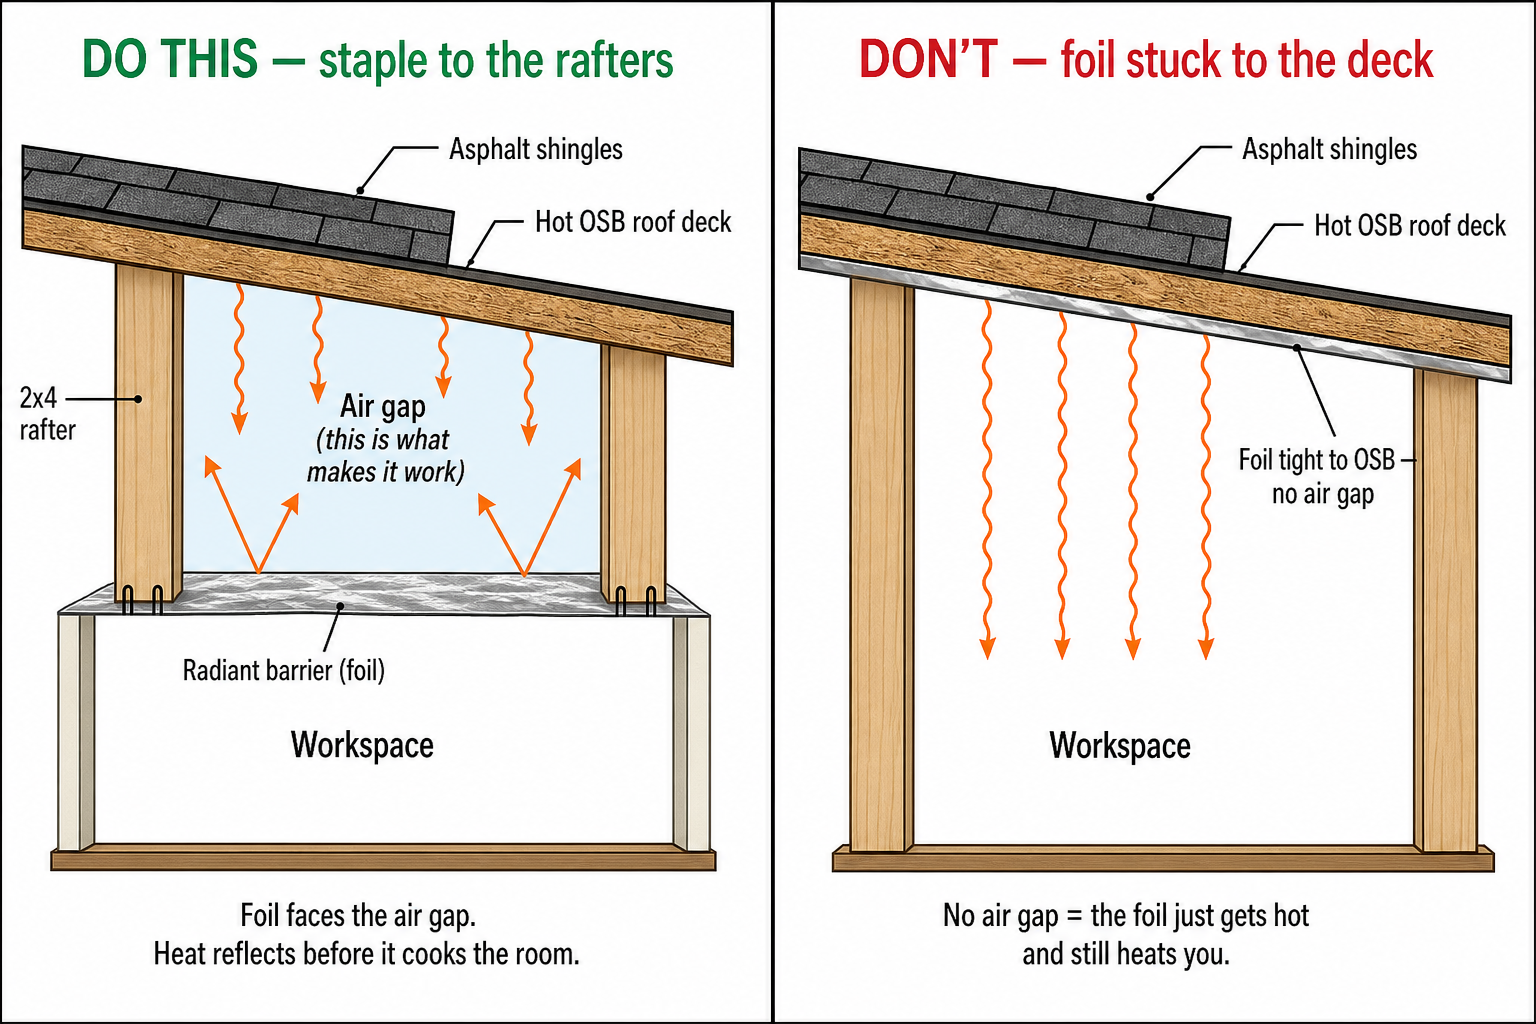
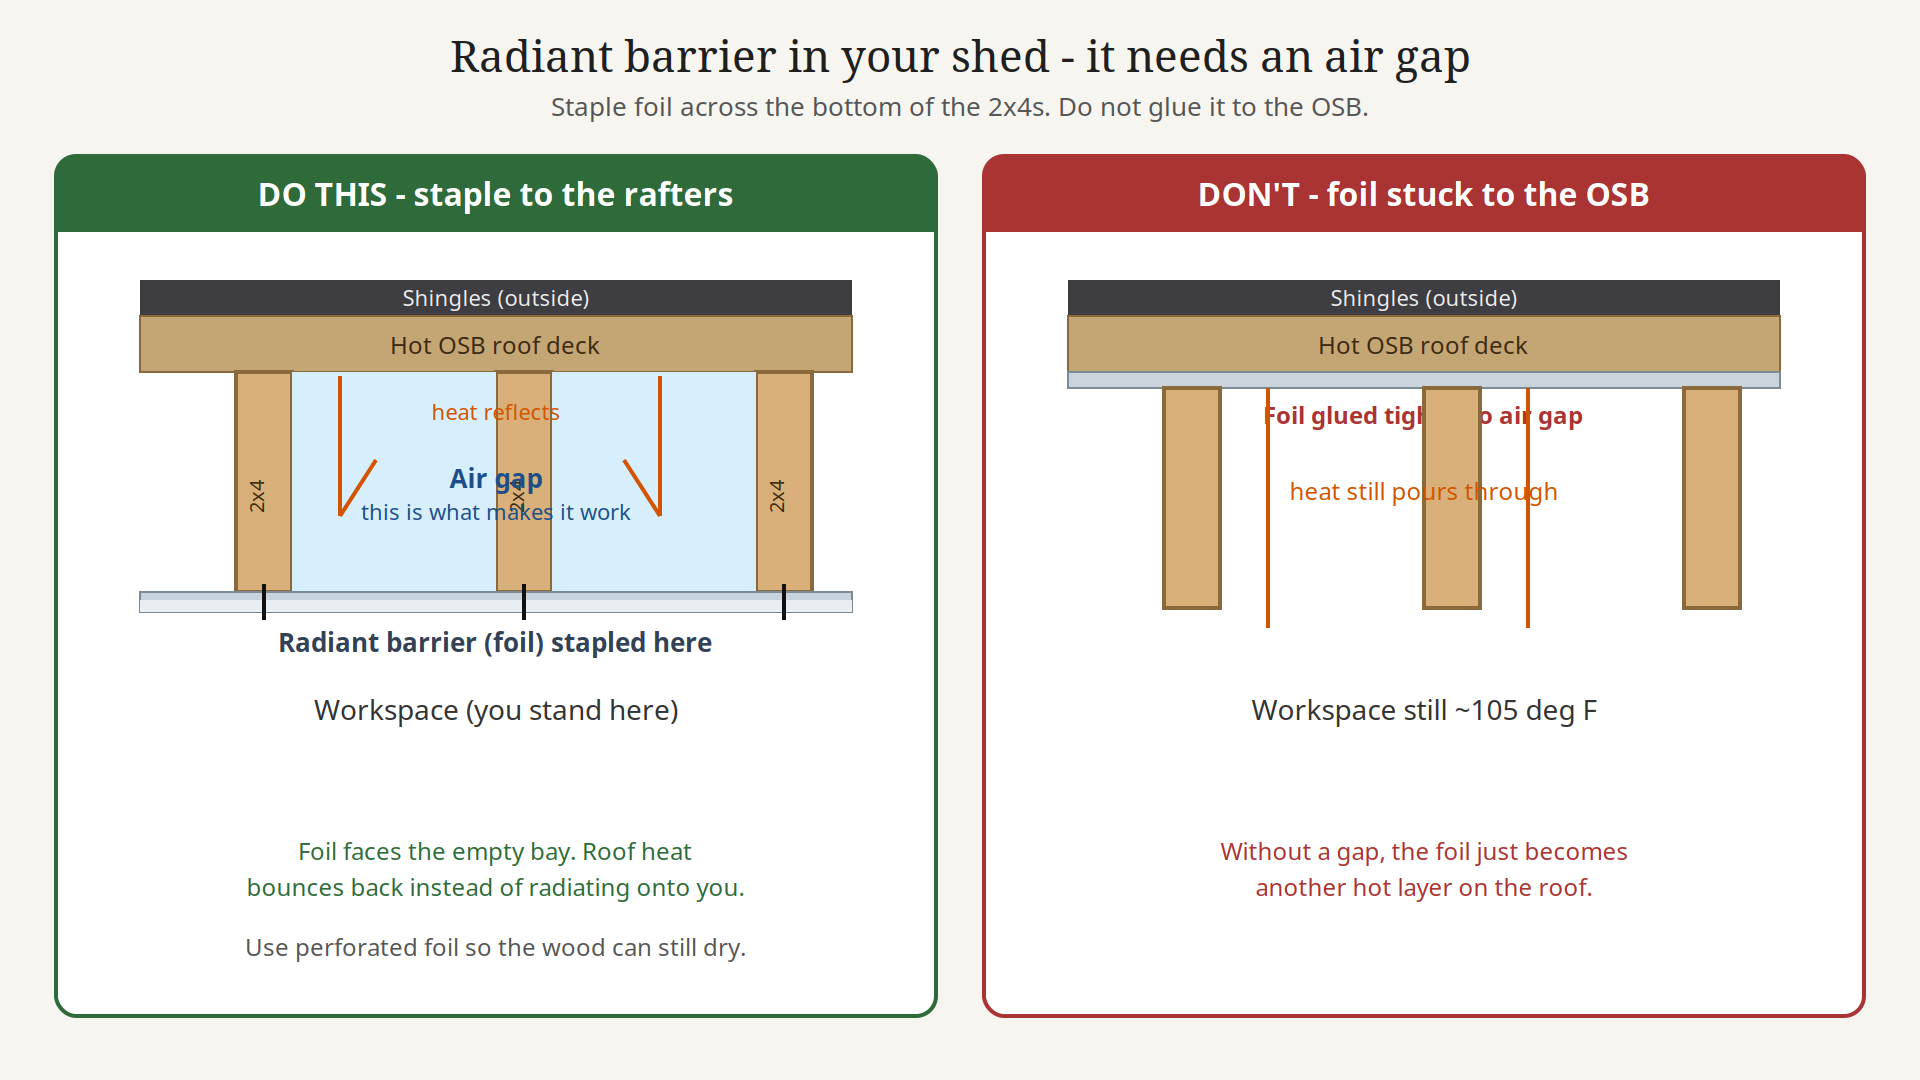
Export the how-to SVGs as PNGs.
Floor plan, sill seal, and radiant barrier now have 1920px PNGs for
the progress site. SVGs stay the editable source.

diff --git a/index.html b/index.html
@@ -96,8 +96,8 @@
         </figure>
       </div>
       <figure class="diagram">
-        <a href="diagrams/floor-plan.svg">
-          <img src="diagrams/floor-plan.svg" alt="Floor plan: 16 by 12 foot foundation, door and jalousie on the 16 foot eave wall.">
+        <a href="diagrams/floor-plan.png">
+          <img src="diagrams/floor-plan.png" alt="Floor plan: 16 by 12 foot foundation, door and jalousie on the 16 foot eave wall.">
         </a>
         <figcaption>First measurements: 16 × 12 ft foundation. Door on the long wall. Roof pitch and the block-line gap still TBD.</figcaption>
       </figure>
@@ -108,8 +108,8 @@
         <figcaption>Radiant barrier: staple foil across the bottom of the 2×4s so the bay stays an air gap. Do not glue it to the hot OSB.</figcaption>
       </figure>
       <figure class="diagram">
-        <a href="diagrams/sill-seal.svg">
-          <img src="diagrams/sill-seal.svg" alt="Diagram: hardware cloth in the wall-to-block gap, covered by Z-flashing or a treated skirt; do not foam-only.">
+        <a href="diagrams/sill-seal.png">
+          <img src="diagrams/sill-seal.png" alt="Diagram: hardware cloth in the wall-to-block gap, covered by Z-flashing or a treated skirt; do not foam-only.">
         </a>
         <figcaption>Sill seal: 1/4" cloth in the gap (pests), flashing or PT skirt over it (water). Foam only behind the cloth, never as the seal.</figcaption>
       </figure>

diff --git a/README.md b/README.md
@@ -32,7 +32,9 @@ Open `README.md` first. Agent context lives in [`.cursorrules`](.cursorrules). T
 └── diagrams/      ← how-to drawings
     ├── radiant-barrier-diagram.png
     ├── radiant-barrier.svg
+    ├── sill-seal.png
     ├── sill-seal.svg
+    ├── floor-plan.png
     └── floor-plan.svg
 ```
 
@@ -58,7 +60,7 @@ Open `README.md` first. Agent context lives in [`.cursorrules`](.cursorrules). T
 - **Comfort:** must be workable. Currently ~**105°F** midday. Path = interior radiant barrier + exhaust fan + lighter paint. No AC. Very humid SC summers — swamp cooler won't work.
 - **Power:** none on site. Modest solar later (lights, charging, fan). Cleanup sessions: battery lights/fan or a GFCI outdoor cord — not AC on a long run.
 - **Door:** 48 × 75.5" opening, two ~24" leaves. Bottoms rotting, frame good — repair, don't replace the opening.
-- **Foundation:** **16 × 12 ft** slab + ~8.5" cinder-block stem. Sill is a **2×6** (5.5 × 1.5). Bottom ~6–10" of 74" 2×4 studs/sheathing is moisture-stained — probe before sealing. Saveable-looking. Seal = **hardware cloth in the gap + flashing/skirt**, not foam-only. Downspout dumps on the corner — move it. See [diagrams/sill-seal.svg](diagrams/sill-seal.svg) and [diagrams/floor-plan.svg](diagrams/floor-plan.svg).
+- **Foundation:** **16 × 12 ft** slab + ~8.5" cinder-block stem. Sill is a **2×6** (5.5 × 1.5). Bottom ~6–10" of 74" 2×4 studs/sheathing is moisture-stained — probe before sealing. Saveable-looking. Seal = **hardware cloth in the gap + flashing/skirt**, not foam-only. Downspout dumps on the corner — move it. See [diagrams/sill-seal.png](diagrams/sill-seal.png) and [diagrams/floor-plan.png](diagrams/floor-plan.png).
 - **Roof inside:** open 2x4 rafters, bare OSB. Back eave has **two soffit vents**; front gutter/eave has none. Take lumber off the collar ties before the foil. Don't block the soffit or ridge. Roof face / pitch still unmeasured.
 - **Dimensions:** 16 × 12 foundation, 87" top-of-wall to bottom-of-block (2×6 sill + 74" 2×4 + **double top plate** + 8.5" block). 48 × 75.5" door, 18 × 22" window. Still need roof pitch and the wall-to-block gap.
 

diff --git a/NOTES.md b/NOTES.md
@@ -2,11 +2,14 @@
 
 A brief, dated log of everything discussed for the shed improvement project. Newest entries are added at the top.
 
+## 2026-09-03 (diagram PNGs)
+- Exported the how-to SVGs to PNGs so they display cleanly on the progress site and phones: [diagrams/floor-plan.png](diagrams/floor-plan.png), [diagrams/sill-seal.png](diagrams/sill-seal.png), and a fresh [diagrams/radiant-barrier-diagram.png](diagrams/radiant-barrier-diagram.png). SVGs stay the editable source.
+
 ## 2026-09-03 (double top plate)
 - Confirmed: **double top plate**. Wall stack is 2×6 sill (1.5") + 74" 2×4 stud + 3" double plate = **78.5" of wood**. 87" top-to-bottom minus the 8.5" block is the same number, so 87" is **top of wall to bottom of the block**. No mystery leftover height.
 
 ## 2026-09-03 (first measurements)
-- Foundation **16 ft (door/eave walls) × 12 ft (gables)**. ~192 sq ft. Bigger than the 8–12 ft guess. Plan: [diagrams/floor-plan.svg](diagrams/floor-plan.svg).
+- Foundation **16 ft (door/eave walls) × 12 ft (gables)**. ~192 sq ft. Bigger than the 8–12 ft guess. Plan: [diagrams/floor-plan.png](diagrams/floor-plan.png).
 - Door: opening **48 × 75.5"**; each leaf **~24-1/16 × 75"**; closed exterior pair **46 × 75"**. Double door, keep the frame, repair bottoms. Bikes / mower / wheelbarrow fit.
 - Window (jalousie): **18 × 22"**.
 - Wall top-to-bottom **87"**. Block stem **8.5"**. Stud **74 × 1.5 × 3.5"** (2×4). Sill **5.5 × 1.5 × Y** (that's a **2×6** plate; Y not taped). **Double top plate** confirmed. 74 + 1.5 + 3" = 78.5"; 87 − 8.5 = 78.5" — 87" is **top of wall to bottom of the block**.

diff --git a/TODO.md b/TODO.md
@@ -4,7 +4,7 @@
 - [ ] Treat the **active** yellow jacket nest under the gutters (dusk/dawn), wait, then scrape remnants and reseat gutter guards
 
 ## Phase 1 — Clear and measure
-- [x] Measure foundation + door + window + wall/stud/sill/block (16 × 12 ft; see [NOTES.md](NOTES.md) and [diagrams/floor-plan.svg](diagrams/floor-plan.svg))
+- [x] Measure foundation + door + window + wall/stud/sill/block (16 × 12 ft; see [NOTES.md](NOTES.md) and [diagrams/floor-plan.png](diagrams/floor-plan.png))
 - [ ] Measure roof face for solar (one eave-to-ridge rafter length, or pitch + ridge height)
 - [ ] Measure the exterior wall-to-block gap width (the hole the cloth has to fill)
 - [ ] Get rid of more junk (mower / chairs / wheelbarrow / leftover yard stuff — bike can stay)
